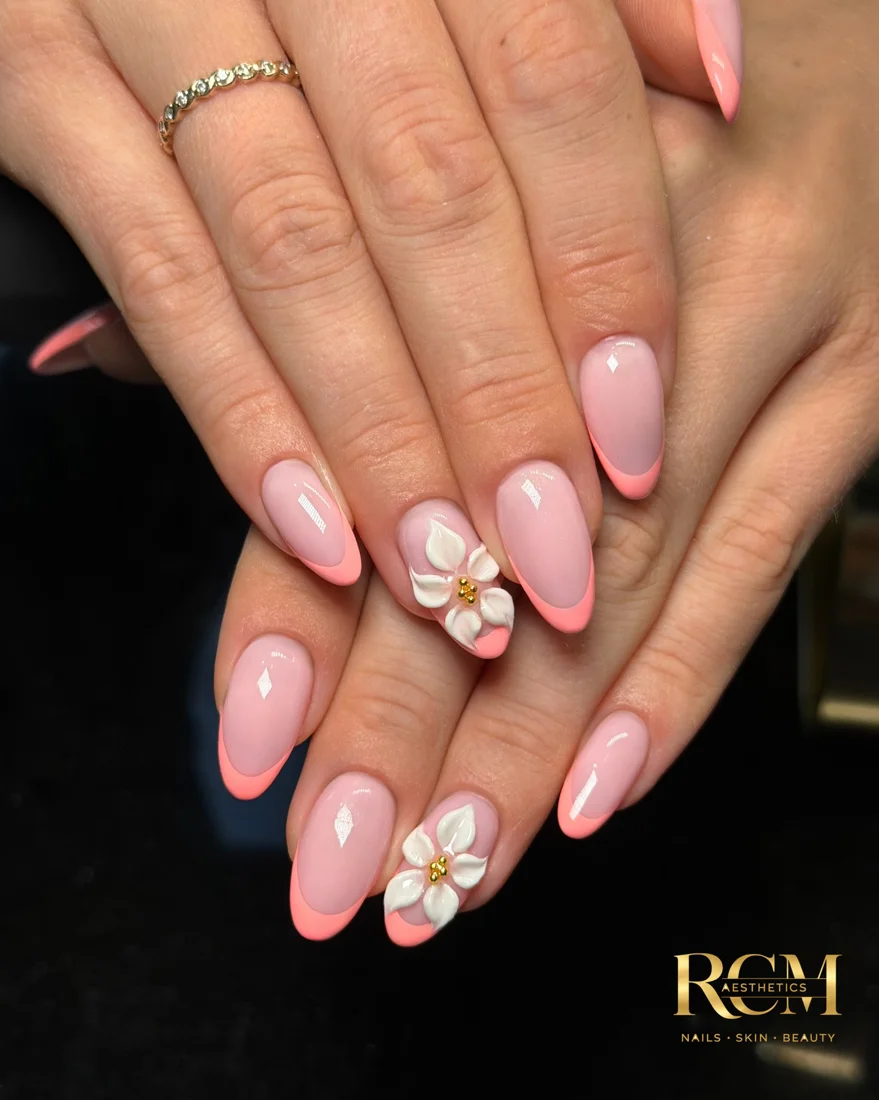
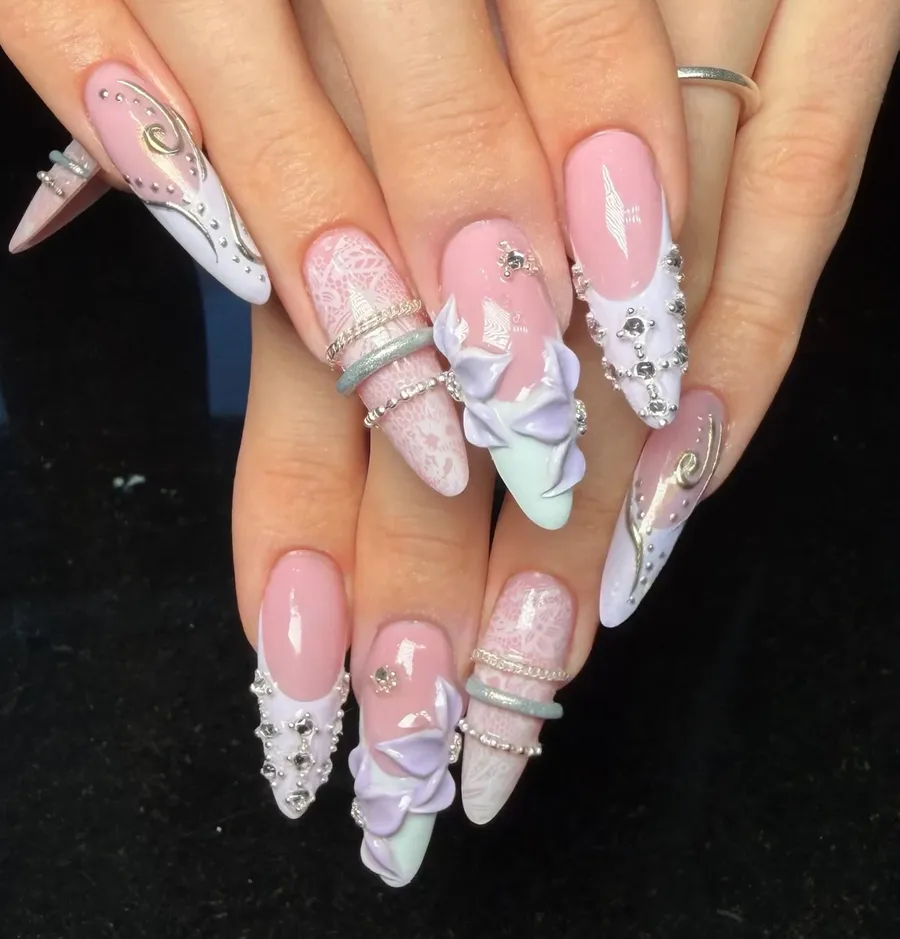
Hero-Foto durch neues Nail-Foto ersetzen

diff --git a/index.html b/index.html
@@ -5,7 +5,7 @@
 <a class="skip" href="#main">Zum Inhalt</a>
 <header class="header"><a class="brand" href="#top" aria-label="RCM Aesthetics, zur Startseite"><img decoding="async" src="assets/logo.png" width="660" height="360" alt="RCM Aesthetics"></a><button class="menu-toggle" aria-expanded="false" aria-controls="navigation">Menü <span aria-hidden="true">☰</span></button><nav id="navigation" aria-label="Hauptnavigation"><a href="#leistungen">Leistungen</a><a href="#arbeiten">Unsere Arbeiten</a><a href="#studio">Das Studio</a><a href="tel:+4917671313965" class="nav-phone">+49 176 71313965</a><a href="#kontakt" class="btn nav-book">Termin anfragen <span aria-hidden="true">↗</span></a></nav></header>
 <main id="main">
-<section class="hero" data-enter><div class="wrap hero-grid"><div class="hero-copy"><p class="eyebrow">RCM Aesthetics in Burscheid</p><h1>Nails. Skin.<br>Dein <em>Beauty</em><br> Moment.</h1><p class="lead">Gelnägel, Nailart, Wimpernverlängerung und Hautpflege in unserem Studio in Burscheid.</p><a class="btn" href="#kontakt">Deinen Termin anfragen <span aria-hidden="true">↗</span></a><a class="hero-wa" href="https://wa.me/4917671313965?text=Hallo%20Rina%20und%20Celina%2C%20ich%20m%C3%B6chte%20gern%20einen%20Termin%20anfragen." target="_blank" rel="noopener noreferrer">Per WhatsApp schreiben</a><a class="text-link" href="#arbeiten">Unsere Arbeiten entdecken <span aria-hidden="true">↓</span></a><div class="hero-note"><span class="small-star" aria-hidden="true">✳</span><p>Bei Rina & Celina<br><span>Hauptstraße 21, Burscheid</span></p></div></div><figure class="hero-image m-zoom" data-enter-media><img decoding="async" src="assets/editorial/hero.webp" srcset="assets/editorial/hero-small.webp 900w, assets/editorial/hero.webp 1440w" sizes="(max-width: 700px) 100vw, 52vw" width="1439" height="1800" alt="Zarte rosafarbene French-Nägel mit plastischen weißen Blüten und goldenen Details" fetchpriority="high"></figure></div></section>
+<section class="hero" data-enter><div class="wrap hero-grid"><div class="hero-copy"><p class="eyebrow">RCM Aesthetics in Burscheid</p><h1>Nails. Skin.<br>Dein <em>Beauty</em><br> Moment.</h1><p class="lead">Gelnägel, Nailart, Wimpernverlängerung und Hautpflege in unserem Studio in Burscheid.</p><a class="btn" href="#kontakt">Deinen Termin anfragen <span aria-hidden="true">↗</span></a><a class="hero-wa" href="https://wa.me/4917671313965?text=Hallo%20Rina%20und%20Celina%2C%20ich%20m%C3%B6chte%20gern%20einen%20Termin%20anfragen." target="_blank" rel="noopener noreferrer">Per WhatsApp schreiben</a><a class="text-link" href="#arbeiten">Unsere Arbeiten entdecken <span aria-hidden="true">↓</span></a><div class="hero-note"><span class="small-star" aria-hidden="true">✳</span><p>Bei Rina & Celina<br><span>Hauptstraße 21, Burscheid</span></p></div></div><figure class="hero-image m-zoom" data-enter-media><img decoding="async" src="assets/editorial/hero.webp" srcset="assets/editorial/hero-small.webp 900w, assets/editorial/hero.webp 1440w" sizes="(max-width: 700px) 100vw, 52vw" width="1600" height="1669" alt="Lange Mandelnägel in Rosa und Flieder mit 3D-Blüten, Strasssteinen und Spitzenmuster" fetchpriority="high"></figure></div></section>
 <section id="leistungen" class="services"><div class="wrap"><div class="section-heading"><p class="eyebrow">Was wir für dich tun</p><h2>Beauty, die<br>zu dir <em>passt.</em></h2><p>Du hast schon ein Bild im Kopf? Zeig es uns. Wenn nicht, suchen wir gemeinsam etwas aus.</p></div><div class="service-grid"><article><div class="service-title"><h3>Nails</h3></div><figure class="m-zoom"><img decoding="async" src="assets/editorial/neon.webp" width="1440" height="1800" loading="lazy" alt="Neonfarbene Nailart mit Blüten und goldenen Akzenten"></figure><p>Gelmodellage, Maniküre und individuelle Nailart, von dezent bis detailverliebt.</p><a class="text-link" href="#arbeiten" data-jump-filter="nails">Nailart entdecken <span aria-hidden="true">↗</span></a></article><article><div class="service-title"><h3>Lashes & Brows</h3></div><figure class="m-zoom"><img decoding="async" src="assets/editorial/lashes.webp" width="1125" height="1406" loading="lazy" alt="Wimpernverlängerung im Detail mit roségoldenem Kosmetikspiegel"></figure><p>Wimpernverlängerung von natürlich bis voluminös. Dazu Browlifting für deine Brauen.</p><a class="text-link" href="#arbeiten" data-jump-filter="lashes">Wimpernarbeiten ansehen <span aria-hidden="true">↗</span></a></article><article><div class="service-title"><h3>Skin</h3></div><figure class="m-zoom"><img decoding="async" src="assets/editorial/skin.webp" width="1200" height="800" loading="lazy" alt="Symbolbild zur Hautpflege: Gesichtsroller, Wasser und weiße Orchidee"></figure><p>Aqua Facial und Microneedling. Welche Behandlung für dich passt, besprechen wir vorher.</p><a class="text-link" href="#kontakt">Hautpflege anfragen <span aria-hidden="true">↗</span></a></article></div></div></section>
 <section id="arbeiten" class="work"><div class="wrap"><div class="gallery-heading"><div><p class="eyebrow">Aus unserem Studio</p><h2>Unsere <em>Arbeiten.</em></h2></div><div class="filters" role="group" aria-label="Arbeiten filtern"><button aria-pressed="true" data-filter="all">Alle</button><button aria-pressed="false" data-filter="nails">Nails</button><button aria-pressed="false" data-filter="lashes">Lashes</button></div></div><p class="sr-only" id="gallery-status" role="status"></p><div class="gallery">
 <button class="gallery-item m-zoom" data-category="nails" aria-label="Großansicht: Pinke Stiletto-Nägel mit Blüten und goldenen Perlen"><img decoding="async" src="assets/editorial/pink.webp" width="1439" height="1800" loading="lazy" alt="Pinke Stiletto-Nägel mit Blüten und goldenen Perlen"><span class="expand" aria-hidden="true">↗</span></button>
